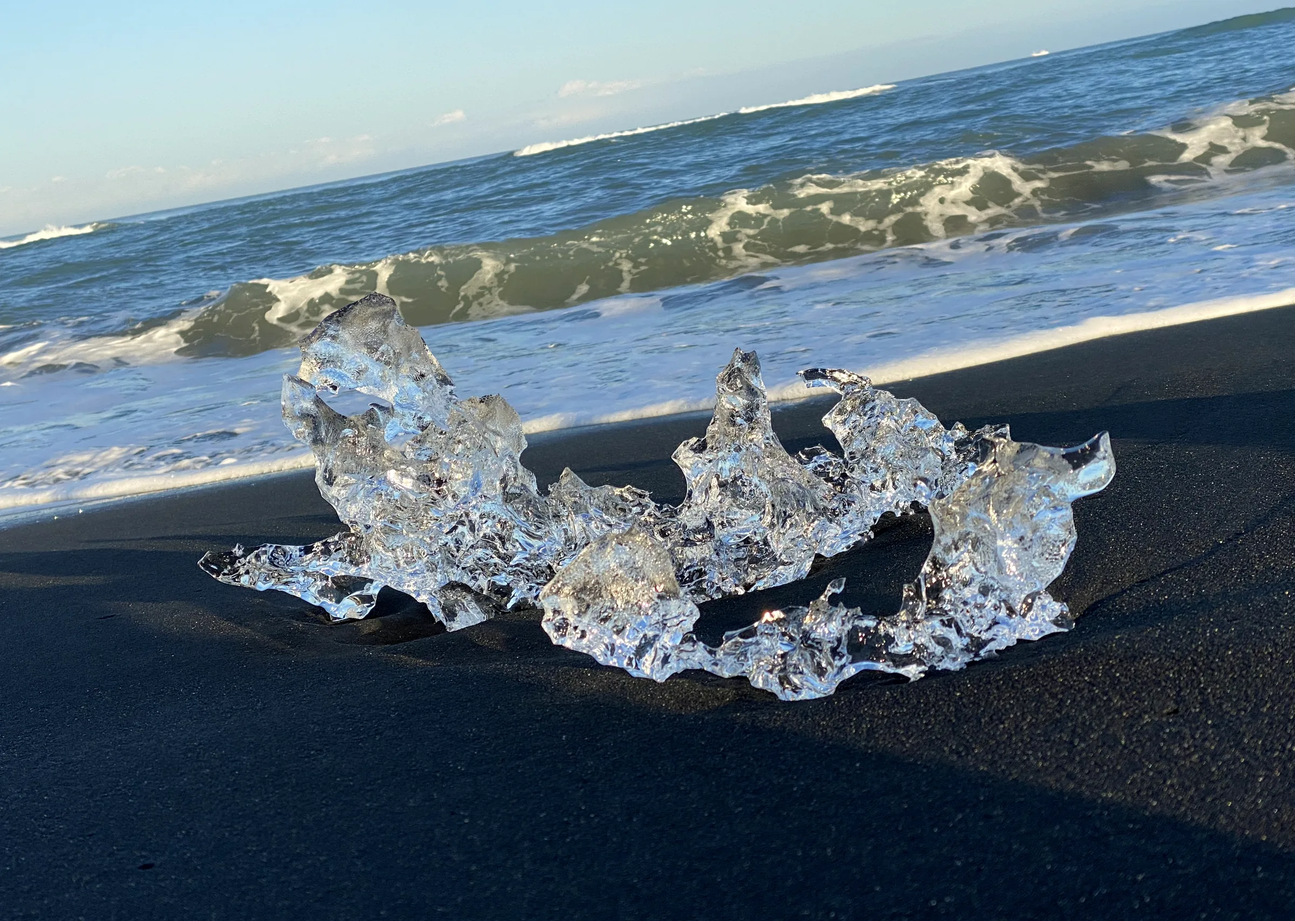
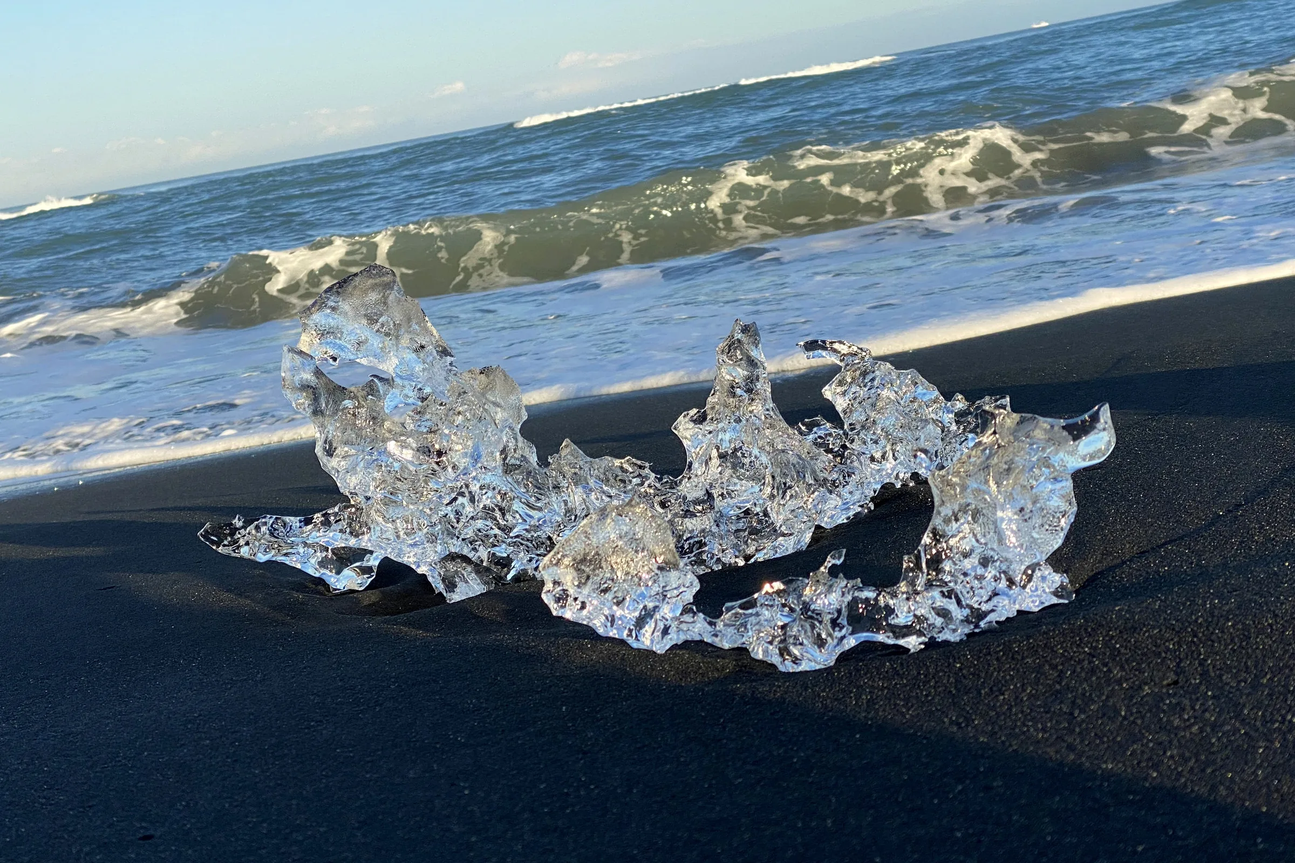
Photo contest: 3:2 thumbnail, single-line card titles, photo title styling
- Crop thumbnail to 2400x1600 (3:2) to match homepage grid
- Truncate featured project card titles to one line with ellipsis
- Add centered italic "Global Change" as photo title above image
- Move blockquote under photo, restructure page sections
- CLAUDE.md: document 3:2 thumbnail requirement for all thumbnails

diff --git a/assets/css/custom.css b/assets/css/custom.css
@@ -1458,10 +1458,17 @@ button:focus:not(:focus-visible),
     text-decoration: none;
     color: inherit;
     transition: transform 0.2s ease;
+    min-width: 0;
 }
 
 .featured-project-card:hover {
     transform: translateY(-4px);
+}
+
+.featured-project-card h5 {
+    white-space: nowrap;
+    overflow: hidden;
+    text-overflow: ellipsis;
 }
 
 .featured-project-card:hover h5 {

diff --git a/_side-projects/ice-contest.md b/_side-projects/ice-contest.md
@@ -1,6 +1,6 @@
 ---
 layout: workshop
-title: "Photo Contest — Life Sciences, University of Vienna"
+title: "Photo Contest — Life Sciences Vienna"
 date: 2026-04-09
 category: "Side Project"
 category_url: "/side-projects/"
@@ -22,14 +22,14 @@ breadcrumb:
   - name: "Photo Contest"
 ---
 
+<h2 class="text-center fst-italic">Global Change</h2>
+
 <picture>
   <source type="image/webp" srcset="/assets/images/content/ice-contest.webp">
   <img src="/assets/images/content/ice-contest.jpg" class="img-fluid mx-auto d-block img-rd-md photo-border" alt="Ice fragment on black sand beach, Iceland" loading="lazy">
 </picture>
 
 > In the age of the Anthropocene, even small coastal scenes echo the planetary transformations reshaping ecosystems. My research examines these shifting patterns as life reorganizes across space and time.
-
-## The photo
 
 This was taken on the black sand beach at Jökulsárlón, Iceland, where icebergs calved from the Breiðamerkurjökull glacier wash up, melt for a few hours, and disappear back into the sea. The piece of ice in the foreground had probably been on the beach for less than a day when I photographed it. The black sand is volcanic basalt. The ocean behind it is the North Atlantic.
 

diff --git a/CLAUDE.md b/CLAUDE.md
@@ -181,7 +181,7 @@ magick PACKAGE_NAME.png PACKAGE_NAME.webp
 rm PACKAGE_NAME.png
 ```
 
-Required size: **2400x1600** pixels.
+Required size: **2400x1600** pixels (3:2 ratio). This applies to **all** thumbnails site-wide, not just pkgdown screenshots. The homepage grid renders thumbnails at `width="398" height="265"` (3:2). Images with a different aspect ratio will appear broken in the grid.
 
 ## Navigation Structure
 
